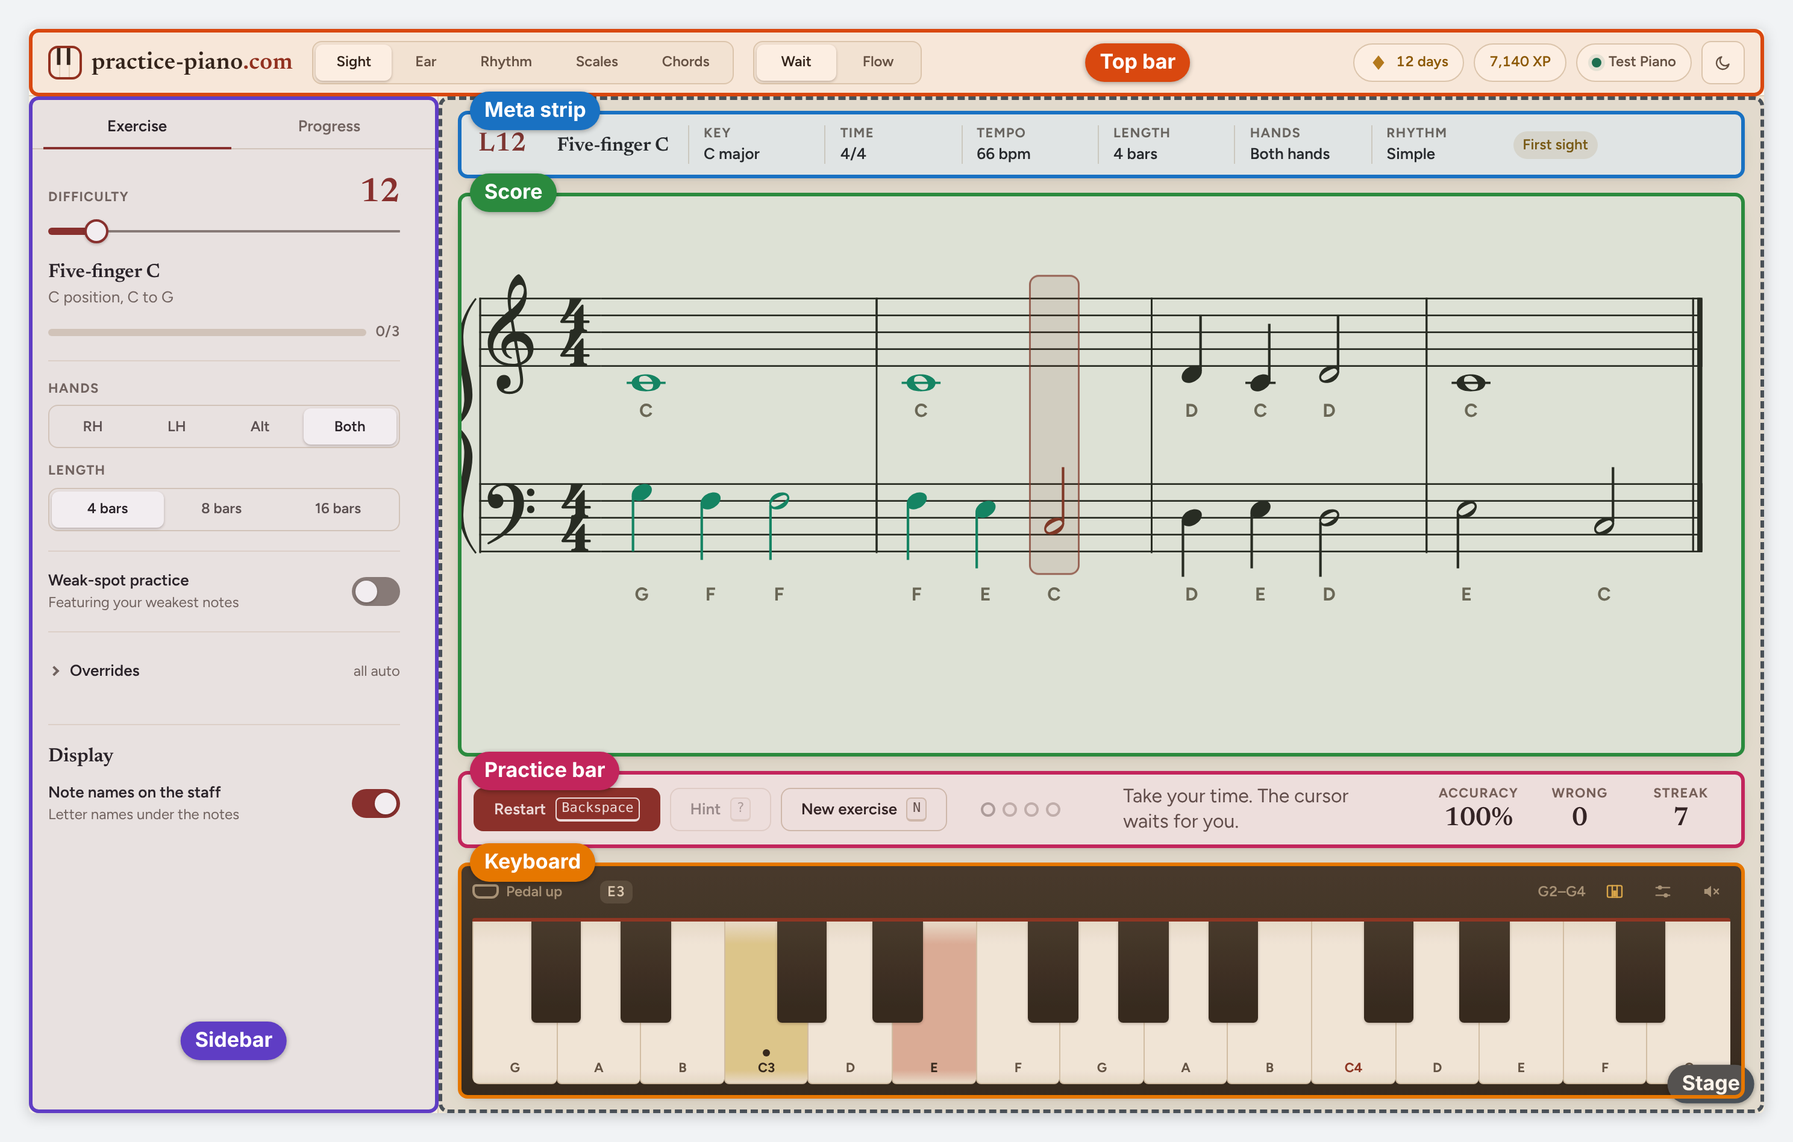
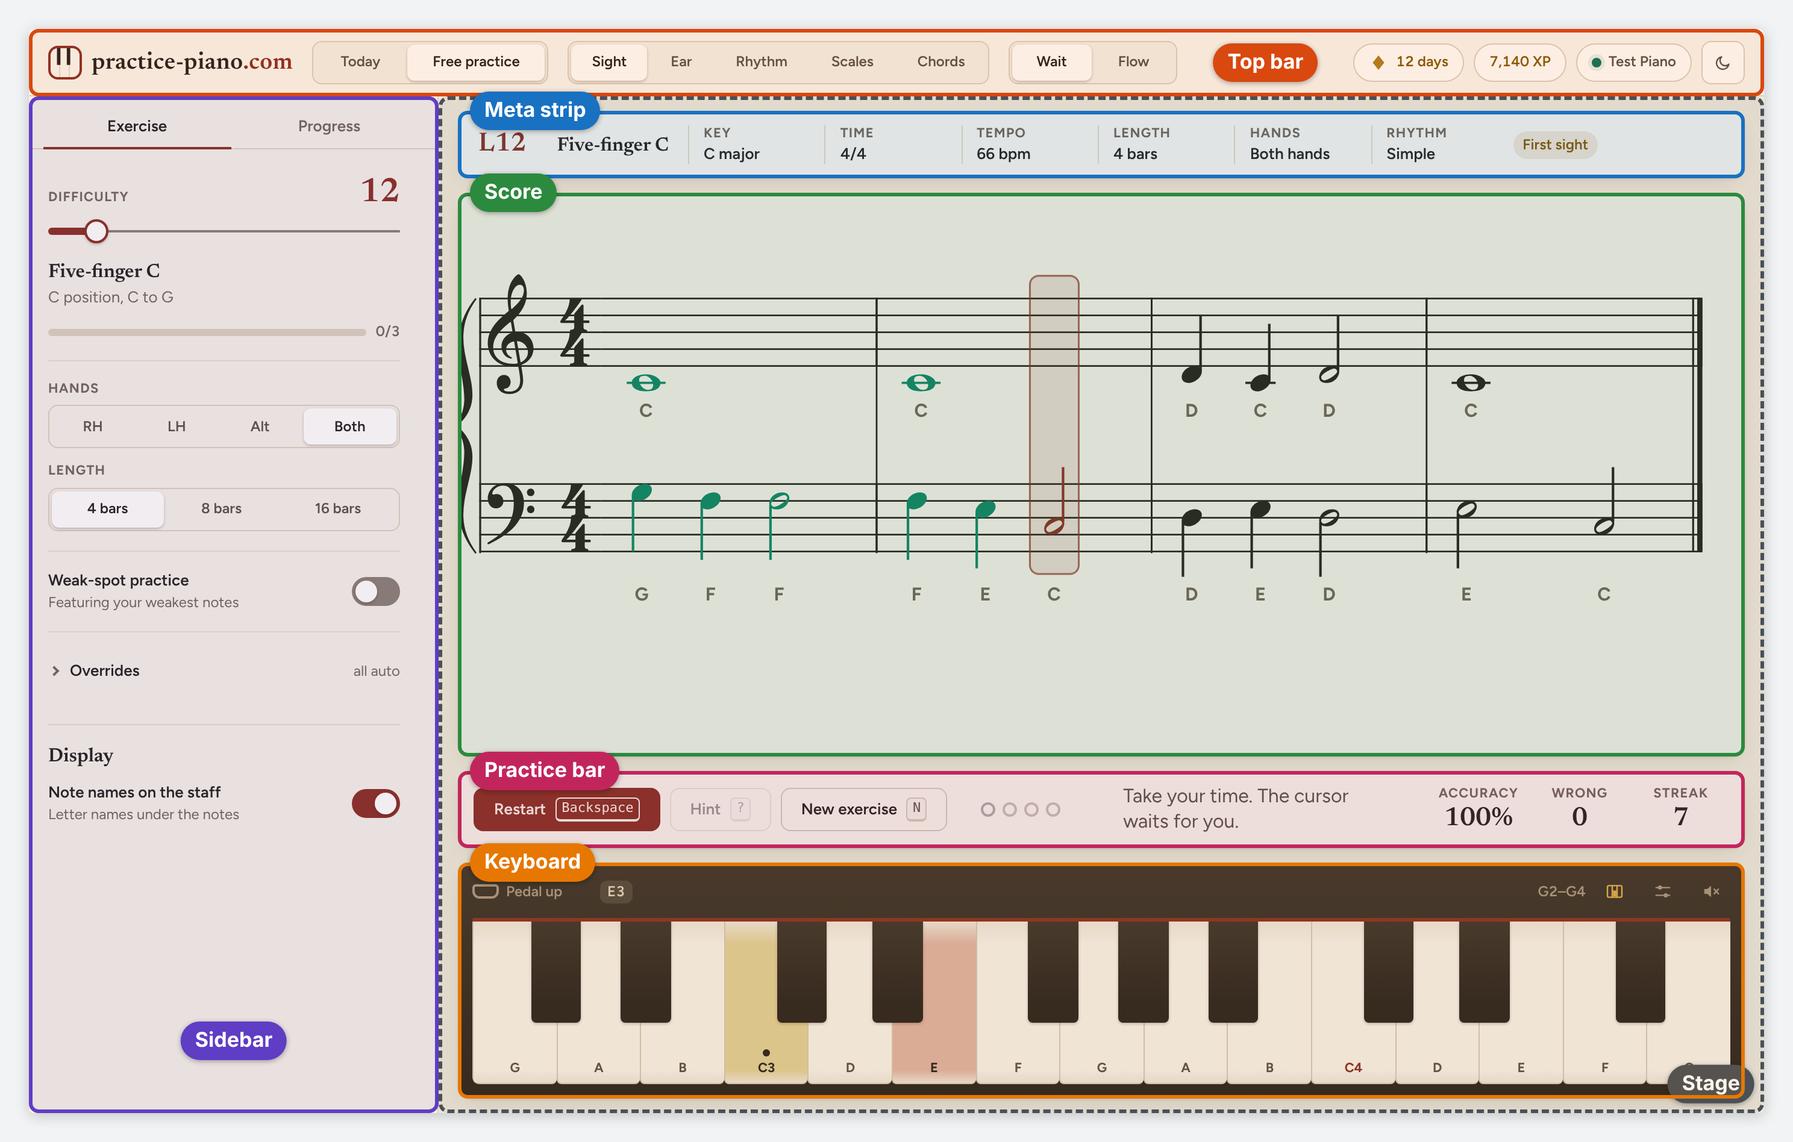
Today's practice: didactics, architecture, guides and the UI map
DIDACTICS §7 says how the blocks are chosen and why. ARCHITECTURE has the
modules and the four seams. The Writing guide gains the words (Today, Free
practice, plan, block), the Layout guide the three views and the top bar's
steps on the way down. The UI map names the Today switch (22 parts, images
retaken) and the plan's parts.

Claude-Session: https://claude.ai/code/session_01WQSh9M8FTGQKurFrviW8Xj

diff --git a/scripts/screenshots/ui-map.spec.ts b/scripts/screenshots/ui-map.spec.ts
@@ -47,6 +47,7 @@ const AREAS: Area[] = [
     sel: '.topbar',
     parts: [
       { name: 'Logo', sel: '.topbar .logo' },
+      { name: 'Today switch', sel: '.topbar-way', note: 'Today or Free practice' },
       { name: 'Lesson switcher', sel: '.topbar-lesson', note: 'Picks the lesson' },
       { name: 'Mode switch', sel: '.topbar-mode', note: 'Wait or Flow' },
       { name: 'Streak chip', sel: '.chip-streak', note: 'Daily practice streak' },

diff --git a/docs/ui-map.md b/docs/ui-map.md
@@ -30,44 +30,50 @@ If you add, rename or remove a part, change the list in the script and the table
 
 ## Parts
 
-![The same screen with 21 numbered parts and a legend](ui-map/ui-map-parts.png)
+![The same screen with 22 numbered parts and a legend](ui-map/ui-map-parts.png)
 
 | # | Part | What it is | Code |
 |---|---|---|---|
 | | **Top bar** | | |
-| 1 | Logo | The wordmark; only the mark stays below 1080 px. | `Logo` in `Icon.tsx` |
-| 2 | Lesson switcher | Sight, Ear, Rhythm, Scales, Chords. | `.topbar-lesson` |
-| 3 | Mode switch | Wait or Flow, for lessons that have both. | `.topbar-mode` |
-| 4 | Streak chip | Days in a row with practice. | `.chip-streak` |
-| 5 | XP chip | Experience points. | `.chip-xp` |
-| 6 | Piano chip | MIDI status and the piano's name; opens the Piano & audio dialog. | `.chip-midi` |
-| 7 | Theme toggle | Light or dark. | `.topbar-right .icon-btn` |
+| 1 | Logo | The wordmark; only the mark stays below 1280 px. | `Logo` in `Icon.tsx` |
+| 2 | Today switch | Today (the plan) or Free practice (pick a lesson). | `.topbar-way` |
+| 3 | Lesson switcher | Sight, Ear, Rhythm, Scales, Chords. | `.topbar-lesson` |
+| 4 | Mode switch | Wait or Flow, for lessons that have both. | `.topbar-mode` |
+| 5 | Streak chip | Days in a row with practice. | `.chip-streak` |
+| 6 | XP chip | Experience points. | `.chip-xp` |
+| 7 | Piano chip | MIDI status and the piano's name; opens the Piano & audio dialog. | `.chip-midi` |
+| 8 | Theme toggle | Light or dark. | `.topbar-right .icon-btn` |
 | | **Sidebar** | | |
-| 8 | Sidebar tabs | Exercise and Progress. | `Tabs` in `App.tsx` |
-| 9 | Exercise panel | The lesson's settings: difficulty, hands, length and so on. One per lesson. | `ExercisePanel.tsx`, `EarPanel.tsx`, `RhythmPanel.tsx`, `ScalesPanel.tsx`, `ChordsPanel.tsx` |
+| 9 | Sidebar tabs | Exercise and Progress (Plan and Progress on the plan page, This block and Progress while a block is played). | `Tabs` in `App.tsx` |
+| 10 | Exercise panel | The lesson's settings: difficulty, hands, length and so on. One per lesson. | `ExercisePanel.tsx`, `EarPanel.tsx`, `RhythmPanel.tsx`, `ScalesPanel.tsx`, `ChordsPanel.tsx` |
 | | **Meta strip** | | |
-| 10 | Level and tier | The level number and the tier's name (or the scale or chord title). | `.meta-lead` |
-| 11 | Exercise stats | Key, time, tempo, length, hands, rhythm. | `.meta-strip > .stat` |
-| 12 | Badges | First sight, weak-spot focus. | `.meta-badges` |
+| 11 | Level and tier | The level number and the tier's name (or the scale or chord title). | `.meta-lead` |
+| 12 | Exercise stats | Key, time, tempo, length, hands, rhythm. | `.meta-strip > .stat` |
+| 13 | Badges | First sight, weak-spot focus. | `.meta-badges` |
 | | **Score** | | |
-| 13 | Staff | The engraved exercise, with note names when they are on. | `.score-host` |
-| 14 | Cursor | The step to play now, in Wait mode. | `.score-cursor` |
+| 14 | Staff | The engraved exercise, with note names when they are on. | `.score-host` |
+| 15 | Cursor | The step to play now, in Wait mode. | `.score-cursor` |
 | | **Practice bar** | | |
-| 15 | Practice actions | Start or Stop, Hint, Restart, New exercise, Results. | `.practice-actions` |
-| 16 | Beat dots | Count-in and the beat in Flow mode. | `.beat-dots` |
-| 17 | Practice message | What to do now, and the grade after a run. | `.practice-message` |
-| 18 | Practice stats | Live numbers for this run: accuracy, wrong notes, streak. | `.practice-stats` |
+| 16 | Practice actions | Start or Stop, Hint, Restart, New exercise, Results. | `.practice-actions` |
+| 17 | Beat dots | Count-in and the beat in Flow mode. | `.beat-dots` |
+| 18 | Practice message | What to do now, and the grade after a run. | `.practice-message` |
+| 19 | Practice stats | Live numbers for this run: accuracy, wrong notes, streak. | `.practice-stats` |
 | | **Keyboard** | | |
-| 19 | Input monitor | Sustain pedal and the notes held right now. | `InputMonitor.tsx` |
-| 20 | Keyboard tools | Range, keyboard guide, keyboard display menu, key sound. | `KeyboardControls.tsx` |
-| 21 | Keys | The on-screen piano. Guide keys light up the notes to play. | `PianoKeyboard.tsx`, `.keys` |
+| 20 | Input monitor | Sustain pedal and the notes held right now. | `InputMonitor.tsx` |
+| 21 | Keyboard tools | Range, keyboard guide, keyboard display menu, key sound. | `KeyboardControls.tsx` |
+| 22 | Keys | The on-screen piano. Guide keys light up the notes to play. | `PianoKeyboard.tsx`, `.keys` |
 
 ## Not in the picture
 
 | Name | What it is | Code |
 |---|---|---|
-| Drawer | The sidebar below 1080 px wide, over the stage with a scrim behind it. | `.sidebar.is-open` |
-| Drawer toggle | The menu button at the right end of the top bar below 1080 px. | `.drawer-toggle` |
+| Drawer | The sidebar below 1080 px wide, and at every width while a block of Today's practice is played, over the stage with a scrim behind it. | `.sidebar.is-open` |
+| Drawer toggle | The menu button at the right end of the top bar, wherever the sidebar is a drawer. | `.drawer-toggle` |
+| Plan page | Today's practice in the stage's place: the blocks with their reasons, the way on, and the summary once the plan is played. | `PlanPage.tsx`, `.plan-page` |
+| Plan list | The blocks on the plan page, one row each. The block that is next is outlined and has the Start button. | `.plan-list` |
+| Plan panel | The sidebar's first tab on the plan page: the plan's length and the lessons it draws from. | `PlanPanel.tsx` |
+| Plan steps | The blocks in the top bar while one is played, in the lesson switcher's place: done, under way with a dot per run, to come. | `PlanSteps.tsx`, `.plan-steps` |
+| Plan button | The way back to the plan page, before the plan steps. | `.topbar-plan .btn` |
 | Progress panel | The sidebar's Progress tab: XP, mastery, streaks, heatmaps. | `ProgressPanel.tsx` |
 | Playhead | The line that moves through the score in Flow mode. | `.score-playhead` |
 | Results card | The card over the score after a run: verdict, numbers, piano shortcuts, actions. | `ResultsCard.tsx`, `.results` |

diff --git a/docs/DIDACTICS.md b/docs/DIDACTICS.md
@@ -344,3 +344,68 @@ Why it is built this way:
 1. Sight reading ✓ 2. Ear training ✓ 3. Rhythm ✓ 4. Scales & arpeggios ✓ (introduced the
 fixed-repertoire infrastructure: item picker, tempo ladder, spaced review, evenness metrics)
 5. Chords & progressions ✓ (reuses it: tempo ladder in bpm, review, pitch-class judging).
+
+## 7. Today's practice ✓ (v1)
+
+The lessons are built for someone who knows what to practice. Many players open the app with a
+quarter of an hour and no plan. **Today's practice** is a plan for that sitting, made from what
+the app already knows: what is due, what is weak, and what has waited longest.
+
+**Two ways to practice.** *Today* plays the plan. *Free practice* is the app as described above:
+pick a lesson and set it up yourself. They share everything that measures the player (levels
+passed, weak spots, tempo ladders, review dates, XP, the streak): it is the same playing.
+
+**One lesson per block.** A plan is a short list of blocks, and a block is one lesson played for
+a few runs with the lesson's own exercises, results and rules. Nothing is mixed inside an
+exercise, so principle 1 holds: the plan decides *what comes next*, never *what an exercise is*.
+This is the "suggestion, never automatic mixing" of §3, taken one step further: the suggestions
+come in an order and the app walks through them.
+
+**How the blocks are chosen.**
+
+| # | Block | What it plays | Says why |
+|---|---|---|---|
+| 1 | Warm-up: Scales & arpeggios | The due items, most overdue first (the order of *Review*). Nothing due: a few runs of the item the lesson is set to. | "3 of 7 due items, most overdue first. Starts with G major scale." |
+| 2 | Sight reading | New passages at the level last passed, with the weakest notes featured when there are any. | "Level 45. Featuring F2 and B2, your weakest notes." |
+| 3, 4 | Ear training and Rhythm | The one that needs it more first: a lesson never tried, then one with weak intervals or figures, then the one that has waited longest. A short plan has room for one of them. | "Not tried yet. Starts at level 13." |
+| 5 | Chords & progressions | Due items, in a long plan. Chords take the warm-up when scales are switched off. | "2 due items." |
+
+Every block says why it is there in the app's own words (principle 6): the note, the figure, the
+number of due items.
+
+**The level is the level last passed.** A block of sight reading, ear training or rhythm is
+played at the level of that lesson's last passed run, not at the level the lesson happens to be
+set to. Trying level 80 in free practice does not move the plan; passing there does. Before any
+pass it is the lesson's starting level (§5). Accuracy before speed (principle 4) applies to the
+plan too: it follows what was played cleanly.
+
+**Length.** 10, 20 or 30 minutes sets how many blocks there are and how many runs each has:
+
+| Length | Warm-up | Sight reading | Ear / rhythm | Chords |
+|---|---|---|---|---|
+| 10 min | 2 runs | 2 | 2 (one of them) | none |
+| 20 min | 3 | 4 | 3 and 2 | none |
+| 30 min | 4 | 5 | 3 and 3 | 3 |
+
+A review block is never longer than what is due, and a lesson can be switched out of the plan;
+the time that frees goes to the other blocks, sight reading first. Minutes are estimates (1.5 to
+2 minutes a run with the time around it); the plan counts runs, not the clock.
+
+**Playing it.** Every finished run counts, a repeat of the same exercise too: repeating is
+practice. Until a block has its runs the lesson's own way on leads ("New exercise", "Again",
+"Next due item"); then the way on is the next block, on the button, on Enter and on the piano's
+D. A block can be skipped, and the plan can be left and picked up again the same day.
+
+**Today only.** What the player changes during a block (a level harder, the other hand, Wait
+instead of Flow) stays in that block. The lesson's own settings in free practice are as they
+were. What a block does to its lesson is small on purpose: the level and the weak-spot focus for
+the three level lessons, review or the player's own item for the repertoire. Hands, length, mode
+and everything else are the player's own.
+
+**The end.** The plan page becomes the summary: playing time, runs passed, the streak, XP, and
+for each block what it came to. It closes with what is due tomorrow. No fanfare (design
+principle 7): the streak already counts the day, whichever way it was practiced.
+
+**Not in v1:** goals and a plan for the week, changing the order of blocks, a plan that reacts
+during the sitting (a failed block is not made longer), per-lesson time measurement, and
+cross-lesson suggestions on evidence from two lessons (§3).

diff --git a/docs/ARCHITECTURE.md b/docs/ARCHITECTURE.md
@@ -296,6 +296,45 @@ gets plain objects back.
   fingering rows in `renderScore`, `MemoryCard` for playing from memory. The layout now fills
   lines for odd bar counts.
 
+## Today's practice
+
+A plan of blocks, one lesson each (DIDACTICS §7). It is built so that no lesson, controller or
+stage component knows about it.
+
+- **Core** (`core/plan/`, pure): `planner.ts` makes the blocks from progress, settings and the
+  plan's preferences (`buildPlan`), with the level rule (`planLevel`: the level last passed) and
+  what a block lays over its lesson's settings (`blockPatch`). `day.ts` is today's plan as it is
+  played: runs per block, the block under way, skipping, the minutes readout, and
+  `normalizePlanDay`, which drops a saved plan that is not today's.
+- **Settings** hold what the player chose: `way` (`'today'` or `'free'`) and `plan` (length,
+  lessons). **Today's plan** itself is a third document beside settings and progress
+  (`ProfileRepository.loadToday` / `saveToday`, key `users/<id>/today`): it survives closing the
+  app, is not part of a backup, and goes with a reset.
+- **`usePlan`** (`ui/plan/usePlan.ts`) owns the plan's state and is the only thing `App.tsx`
+  talks to. The plan meets the lessons at four seams, all in `App.tsx`:
+  1. *Settings in.* `plan.settings` is the player's settings with the block's laid over them
+     (and over those, what the player changed during the block). `useLesson` gets these, so a
+     lesson cannot tell a block from free practice. Lesson groups the layer does not touch keep
+     their identity, because the lessons make a new exercise when their group changes.
+  2. *Settings back.* `plan.update` splits a change: the lessons' own settings and the weak-spot
+     focus stay in the block (memory only), everything else (theme, piano, sound) is saved.
+  3. *Results.* `onFinished` hands every result and its award to `plan.record`.
+  4. *The way on.* `plan.continuation` passes the lesson's `Continuation` through until the
+     block has its runs, then replaces `next` ("Next: rhythm", with a `detail` sentence the
+     results card shows). The practice bar, results card, Enter, N and the piano's D all read
+     the one continuation, so none of them changed.
+- **A block coming onto the stage** is set up the way the Progress tab sets a lesson up: the
+  active runtime's `review()` or `practiceWeakSpots()`, or a new seed. The plan moves in an event
+  handler, is rendered at once (`flushSync`), and the block's lesson, now the active one, is set
+  up in the same handler (`moveToBlock` in `App.tsx`). No effect is involved.
+- **UI** (`ui/plan/`): `PlanPage` (the plan page in the stage's place: the list, the way on,
+  the summary), `PlanPanel` (the sidebar's first tab on that page), `PlanSteps` (the top bar
+  while a block is played). `TopBar` takes the steps as a slot and renders the Today / Free
+  practice switch. While a block is played the app has `.is-plan-block`: the sidebar is the
+  drawer at every width and the stage takes the full width (`styles/plan.css`).
+- On the plan page the lesson underneath is not attached to the input, and the computer-key
+  shortcuts are off, as under a dialog; the page takes Enter and the piano's D itself.
+
 ## Extending with new lesson types
 
 A lesson is a set of modules, one of each kind, and App.tsx only picks the active one:

diff --git a/design/system/guides/02-layout.md b/design/system/guides/02-layout.md
@@ -19,6 +19,20 @@ The stage, in order, with `space-12` between cards and `space-16` around them:
 
 Only the score flexes. Rows 1, 3 and 4 never change height because of their content.
 
+## Today
+
+Today's practice changes the frame around the stage, never the stage.
+
+| View | Top bar | Sidebar | Main area |
+|---|---|---|---|
+| Free practice | Today / Free practice switch, lesson switcher, Wait or Flow | Exercise, Progress | The stage |
+| Plan page | Today / Free practice switch | Plan, Progress | One Card on `surface-canvas`, up to 780px wide, centered, holding the title, the readout and the PlanList. It scrolls inside the main area. |
+| A block | "Plan" button and PlanSteps in the lesson switcher's place, Wait or Flow | A drawer at every width: This block, Progress | The stage, full width |
+
+- **The plan page is the one page that is not the stage.** It is read from the bench between blocks, so it follows the stage's type floor: names in `title`, sentences in `body-lg`. Its controls (length, lessons) are in the sidebar, where the player leans in.
+- **While a block is played the score has the whole width.** The plan set the exercise up, so the settings are a drawer away, not on screen. The stage's four cards and their heights are unchanged.
+- **The steps take exactly the lesson switcher's box**, so nothing else in the top bar moves when a block starts or ends.
+
 ## Stability rules
 
 - A value that changes has a reserved width: `min-width` in `ch` for numbers, a fixed track for stats and badges.
@@ -35,11 +49,12 @@ Use these four for the shell, written as numbers in media queries. Everything el
 | Token | Width | What changes |
 |---|---|---|
 | `bp-xl` | 1440px and up | Long lesson names. |
-| `bp-lg` | below 1080px | Sidebar becomes a drawer over the stage, opened from the top bar, with `scrim` behind it. Wordmark and reward chips drop out. |
+| `bp-lg` | below 1080px | Sidebar becomes a drawer over the stage, opened from the top bar, with `scrim` behind it. Reward chips drop out. |
 | `bp-md` | below 760px | Stage padding and gaps go to `space-8`. Short labels in the switchers. Keyboard at 148px. |
 | `bp-sm` | below 480px | Shortcut caps and the middle stat hide. Dialogs are full-screen sheets below 600px. |
 
 - What drops out goes in a fixed order: decoration, then labels that have an icon, then secondary numbers. Actions and the score never drop.
+- **The top bar has its own steps on the way down**, because it holds the most: "Free practice" reads "Free" below 1440px (the full name is still read out), the wordmark goes below 1280px, the reward chips below 1080px, the piano's name below 940px (its dot stays), and below 650px the lessons, or the plan's steps, take a second row, with Today as a button before the lessons.
 - Respect safe areas: pad the top bar and the bottom of the stage with `env(safe-area-inset-*)`.
 - Landscape tablet is the reference layout. Design there first, then check a 13-inch laptop and a phone.
 

diff --git a/design/system/guides/01-writing.md b/design/system/guides/01-writing.md
@@ -13,7 +13,7 @@ The app speaks like a good piano teacher sitting beside you: calm, specific, bri
 ## Mechanics
 
 - **Sentence case** everywhere, including buttons, titles and tabs. Uppercase only through the `overline` style.
-- **Buttons are verbs**: Start, Stop, Restart, Next, New exercise, Measure again. No "OK", no "Submit".
+- **Buttons are verbs**: Start, Stop, Restart, Next, New exercise, Measure again. No "OK", no "Submit". A button that leads somewhere new names it: "Start sight reading", "Next: rhythm".
 - **Titles are nouns or tasks**: "Piano & audio", "Connect your piano".
 - **One idea per sentence.** Two short sentences instead of one joined by a dash: "Take your time. The cursor waits for you."
 - **Periods** end sentences in messages and hints. Labels, buttons, titles and stats take none.
@@ -46,6 +46,9 @@ The app speaks like a good piano teacher sitting beside you: calm, specific, bri
 | run | attempt, try, session |
 | lesson (Sight reading, Ear, Rhythm, Scales, Chords) | mode, module |
 | Wait, Flow (the two practice modes) | untimed, timed |
+| Today, Free practice (the two ways to practice) | guided, freestyle, play mode |
+| Today's practice, the plan (what Today plays) | routine, session, workout |
+| block (one lesson's part of the plan) | step, unit, task |
 | level (1–100), tier (a named band of levels) | stage, rank |
 | mastered | completed, done |
 | due, review | overdue, repeat |

diff --git a/design/README.md b/design/README.md
@@ -5,8 +5,8 @@ guidelines, icons and fonts. It covers the app in this repository and the landin
 [practice-piano-site](https://github.com/emrass/practice-piano-site).
 
 **Status:** the app builds and imports the tokens and the component stylesheet. Its controls,
-dialogs, panels, the top bar and the stage (meta strip, score, keyboard, practice bar, results,
-chord chart, beat dots, heatmap) use the components; the React side is in `src/ui/components`
+dialogs, panels, the top bar, the stage (meta strip, score, keyboard, practice bar, results,
+chord chart, beat dots, heatmap) and Today's practice (plan steps, plan list) use the components; the React side is in `src/ui/components`
 (`controls.tsx`, `Dialog.tsx`, `Icon.tsx` and the stage components themselves). What is left in
 `src/styles` for the stage is arrangement: the stage grid, the score's scrolling frame, how the
 cursor and playhead are placed, and what the shell changes by window size. `system/guides/05-adoption.md` maps the old classes to their replacements.

diff --git a/README.md b/README.md
@@ -18,6 +18,13 @@ Lessons:
   standard progressions in every key, judged by the notes you hold in any voicing, with a
   voice-leading score.
 
+There are two ways to practice, switched in the top bar. **Free practice** is the five lessons:
+pick one and set it up yourself. **Today** plays a plan of 10, 20 or 30 minutes made from what
+the app already knows: due scales first, sight reading at the level you last passed with your
+weakest notes featured, then ear training and rhythm, whichever needs it more. Each part of the
+plan is a block of one lesson, played with that lesson's own exercises and results; what you
+change during a block stays in today's plan.
+
 The didactic concept behind the lessons (and the planned ones) is in
 [docs/DIDACTICS.md](docs/DIDACTICS.md).
 
